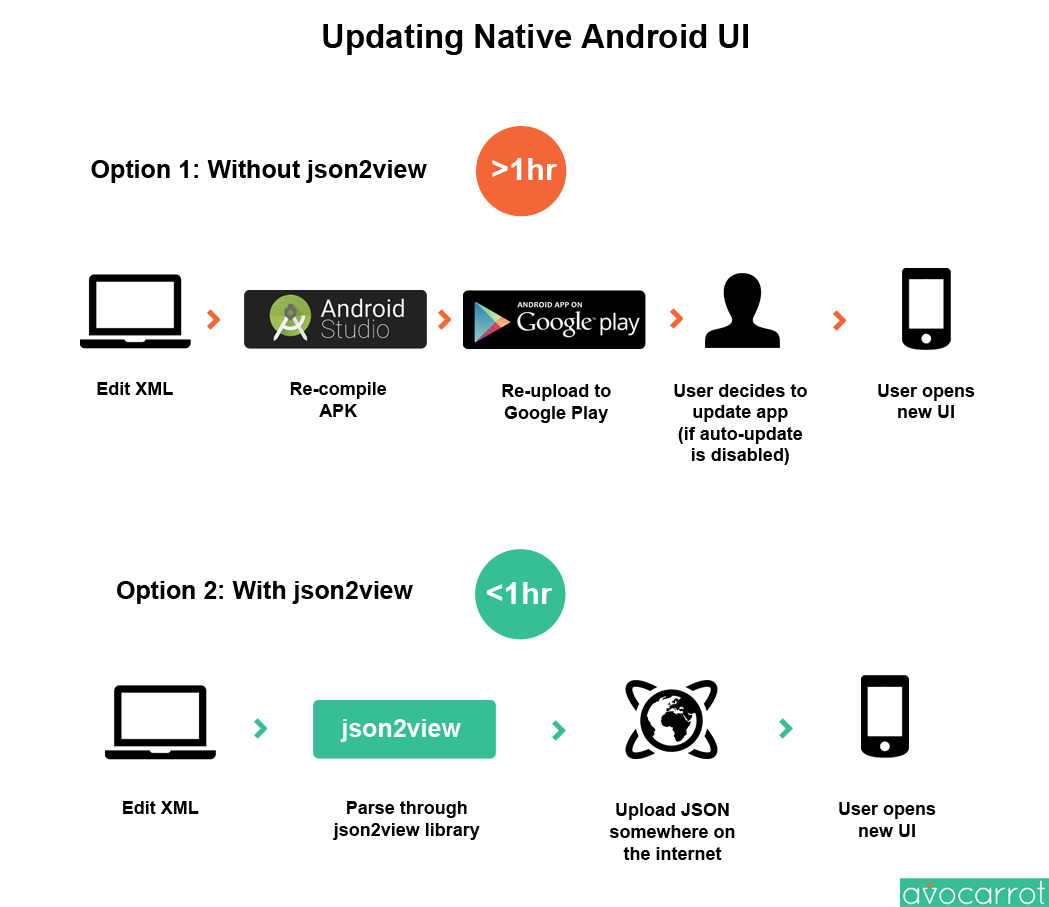
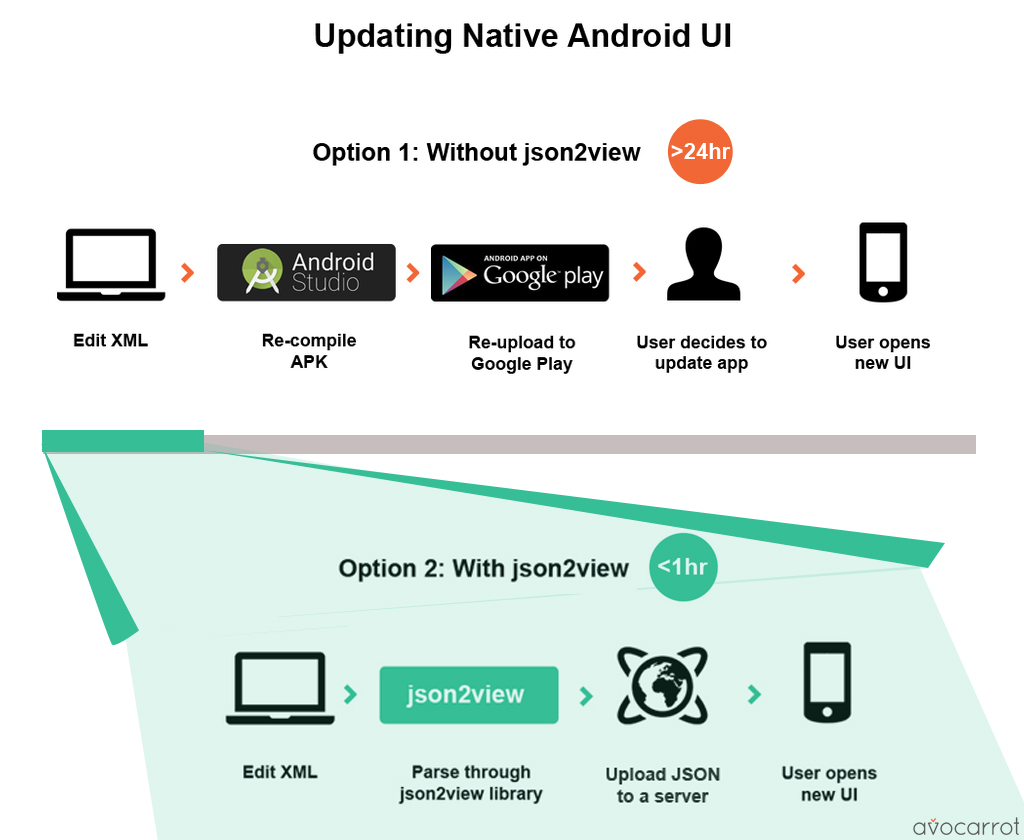
update readme [skip ci]

diff --git a/README.md b/README.md
@@ -9,7 +9,9 @@ You can parse any xml through the json2view library to create a JSON that will b
 
 This removes the hassle everytime you want to make small changes in UI to have to update the APK which includes re-compiling and uploading to Google Play as well as every single user manually deciding whether to update your app or not (if they have opted-out from auto-update).
 
-Hope you find it useful and any feedback or PRs are more than welcome!
+![Flow](https://github.com/Avocarrot/json2view/blob/master/example_assets/json2viewFlow.jpg)
+
+Some examples when json2view is useful include having just released a new feature and your mobile analytics show a slow user adoption, so you might want to deploy a quick UI fix to draw better attention on the call-to-actions without having to wait for the next big APK update. In the case of [Avocarrot](http://www.avocarrot.com), we are using json2view to run A/B test experiments and quickly deploy UI enhancements that improve revenue performance of native ads integrations in our network.
 
 ## Pros
 * Change layout for a view without the need to update the apk
@@ -21,6 +23,9 @@ You can find more help and examples in the [wiki](https://github.com/Avocarrot/j
 
 Also, a sample project for quick use of the lib can be found in the [sample submodule](https://github.com/Avocarrot/json2view/tree/master/sample)
 
+Hope you find it useful and any feedback or PRs are more than welcome!
+
+
 # Examples
 
 ![output](https://github.com/Avocarrot/json2view/blob/master/example_assets/test00.png)
@@ -30,13 +35,6 @@ Using json2view to change text color, background color and position of a view. [
 ![output](https://github.com/Avocarrot/json2view/blob/master/example_assets/test01.png)
 
 Using json2view to reorganize the layout of a screen. [(more details)](https://github.com/Avocarrot/json2view/wiki/Changing-Layouts)
-
-
-# Why is it better?
-
-![Flow](https://github.com/Avocarrot/json2view/blob/master/example_assets/json2viewFlow.jpg)
-
-Some examples when json2view is useful include having just released a new feature and your mobile analytics show a slow user adoption, so you might want to deploy a quick UI fix to draw better attention on the call-to-actions without having to wait for the next big APK update. In the case of [Avocarrot](http://www.avocarrot.com), we are using json2view to run A/B test experiments and quickly deploy UI enhancements that improve revenue performance of native ads integrations in our network.
 
 
 # Installation
